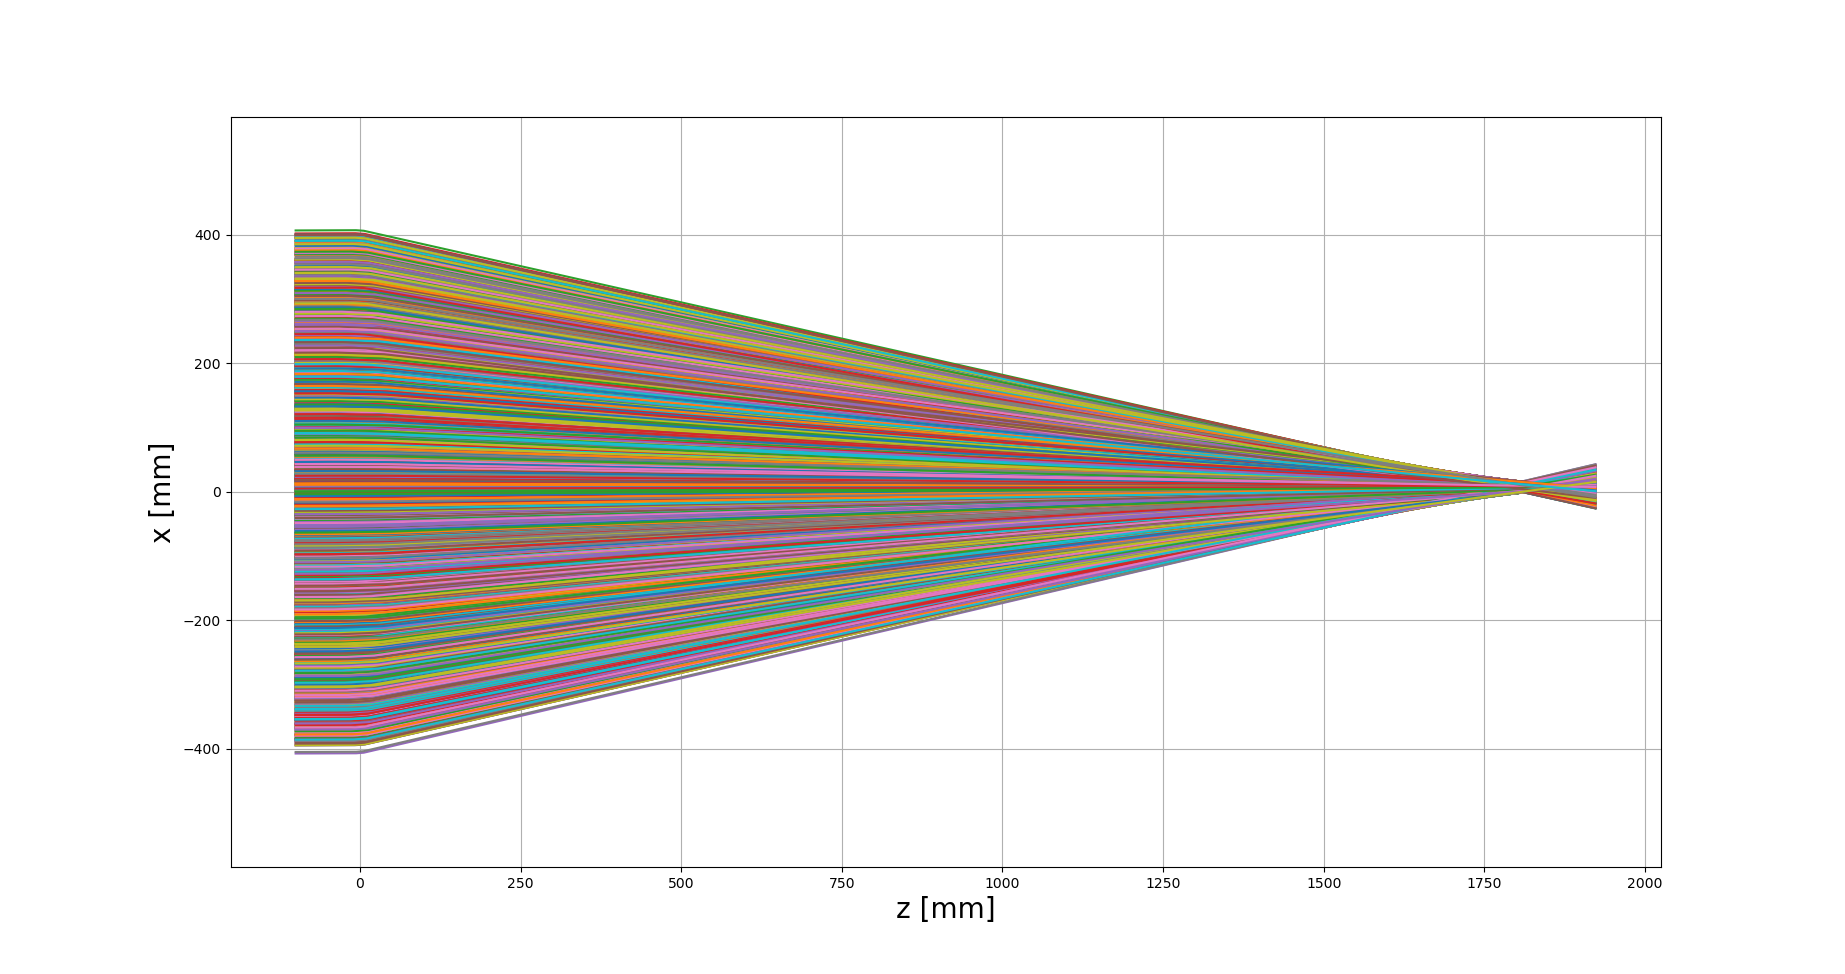
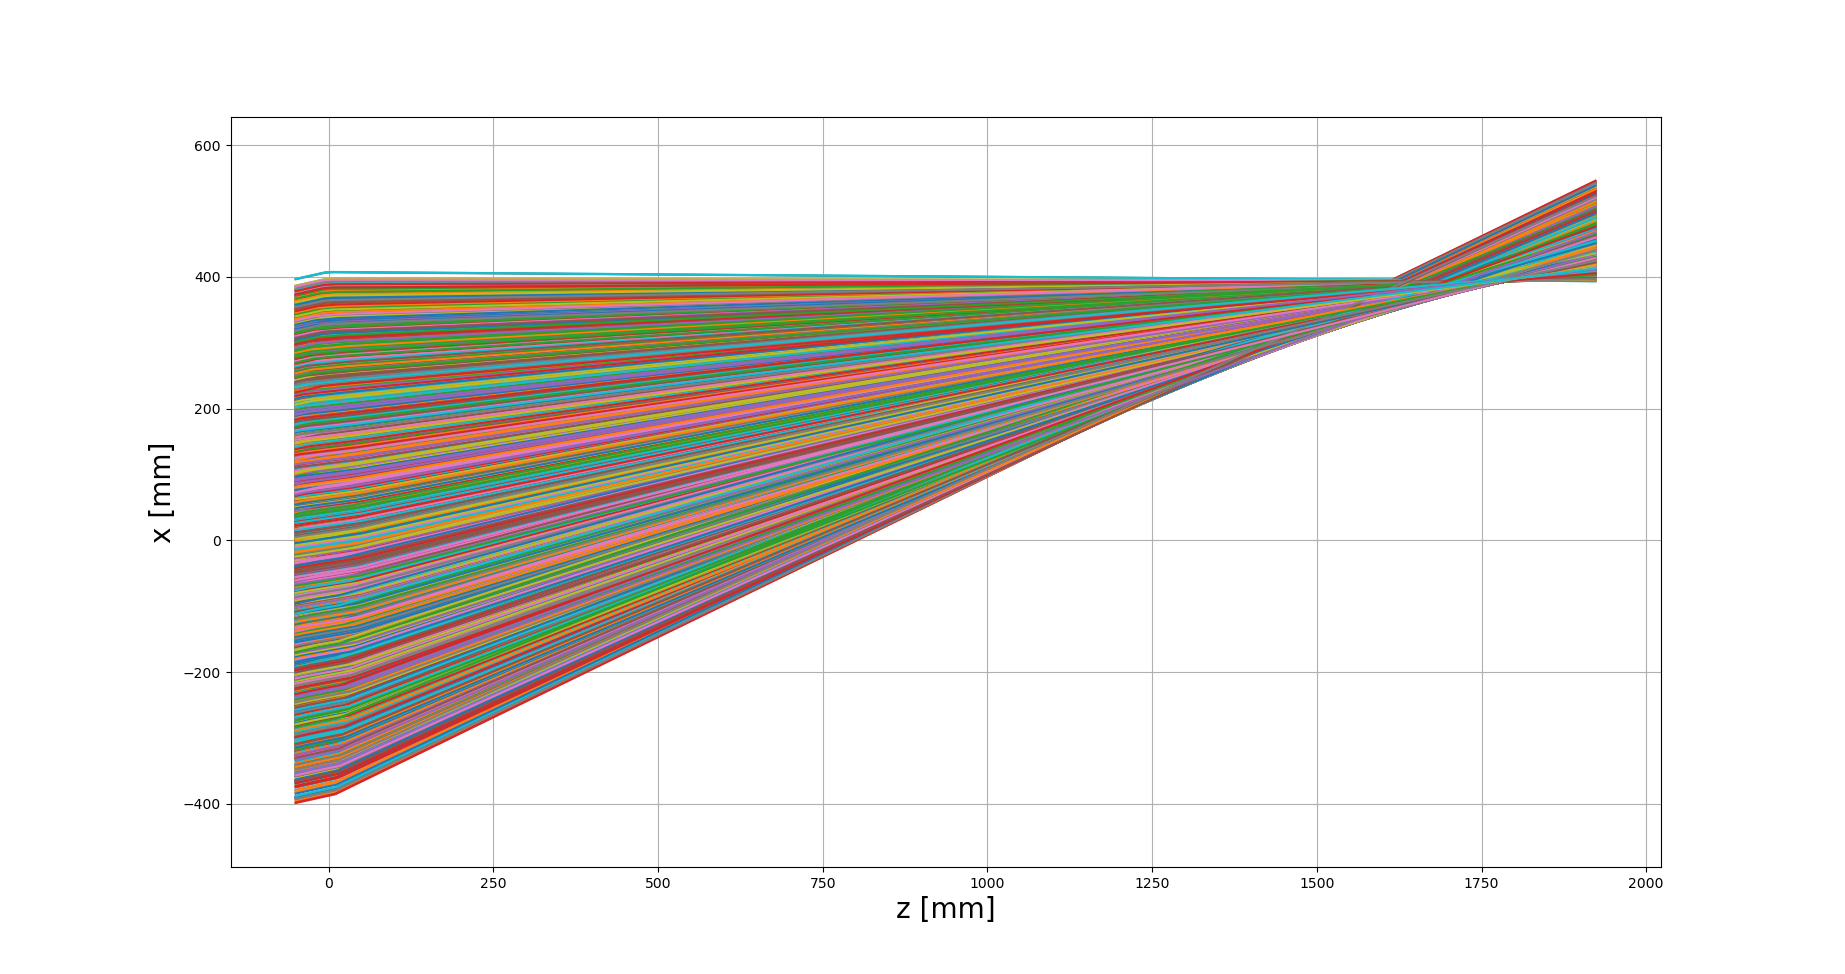
fixed angle error

diff --git a/single_photon.py b/single_photon.py
@@ -16,25 +16,25 @@ def find_z(start_point, angle_to_the_axis, sphere_center, radius):
 
 
     direction = np.array([np.sin(angle_to_the_axis*deg_to_rad), 0, np.cos(angle_to_the_axis*deg_to_rad)])
-    #print("\n direction: ", direction)
+    print("\n direction: ", direction)
 
     intersection_point = get_intersection_point(start_point, direction, sphere_center, radius)
-    #print("\n intersection_point: ", intersection_point)
+    print("\n intersection_point: ", intersection_point)
 
     all_x.append(intersection_point[0])
     all_z.append(intersection_point[2])
 
     refracted_direction = reflect(direction, sphere_center, intersection_point, in_or_out='in')
-    #print("\n refracted_direction: ", refracted_direction)
+    print("\n refracted_direction: ", refracted_direction)
 
     second_intersection_point = get_intersection_point(intersection_point, refracted_direction, np.array([0, 0, -1850.]), radius)
-    #print("\n second_intersection_point: ", second_intersection_point)
+    print("\n second_intersection_point: ", second_intersection_point)
 
     all_x.append(second_intersection_point[0])
     all_z.append(second_intersection_point[2])   
 
     second_refracted_direction = reflect(refracted_direction, np.array([0, 0, -1850.]), second_intersection_point, in_or_out='out')
-    #print("\n second_refracted_direction: ", second_refracted_direction)
+    print("\n second_refracted_direction: ", second_refracted_direction)
 
     focal_distance = 1923.
     #focal_distance = 1600.
@@ -62,23 +62,12 @@ radius = 1900.  # in mm
 out_x = []
 out_y = []
 
-n = 4000
-rng = np.random.default_rng()
 
-angles = 2*np.pi * rng.random((n,))
-rs = 400* rng.random((n,))
-
-x = []
-y = []
-
-for i in range(n):
-    x.append(rs[i] * np.cos(angles[i]))
-    y.append(rs[i] * np.sin(angles[i]))
-
+n = 1
 
 ax = plt.subplot()
 for i in range(n):
-    zz = find_z(np.array([x[i], y[i], -50]), angle_to_the_axis, sphere_center, radius)
+    zz = find_z(np.array([0, 0, -50]), angle_to_the_axis, sphere_center, radius)
     out_x.append(zz[0])
     out_y.append(zz[1])
     all_x = zz[2]
